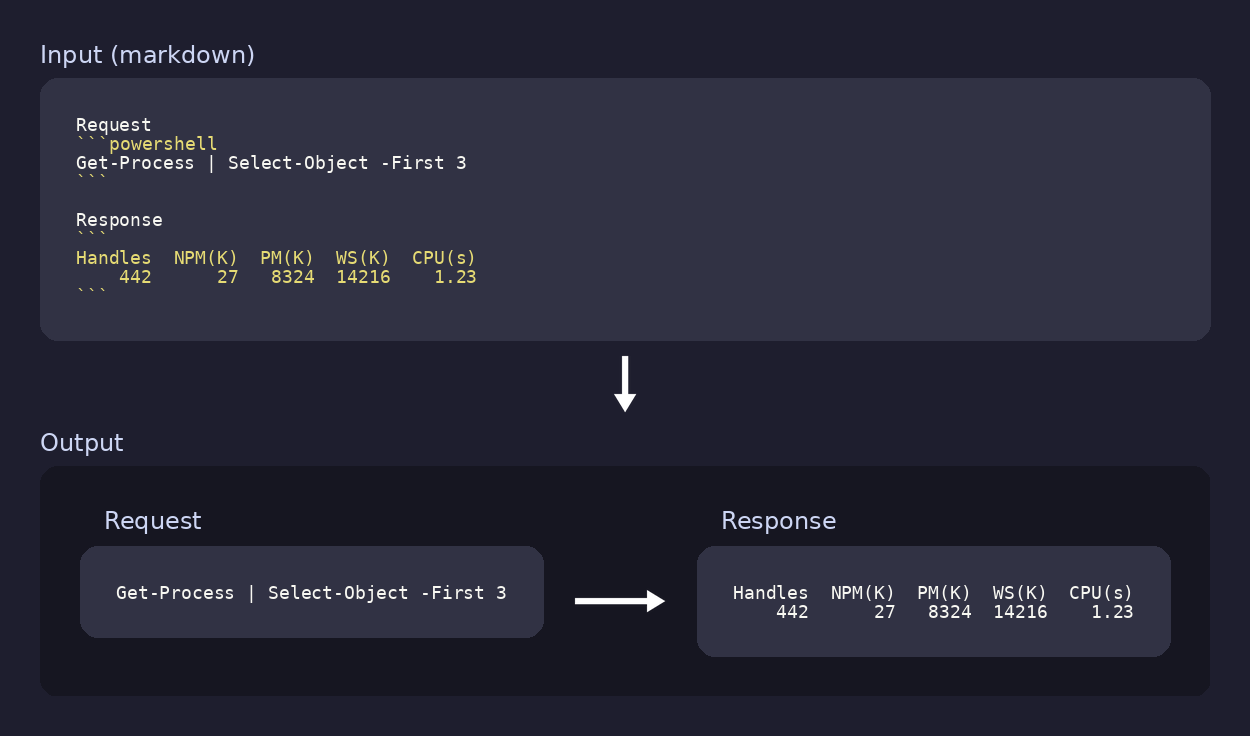
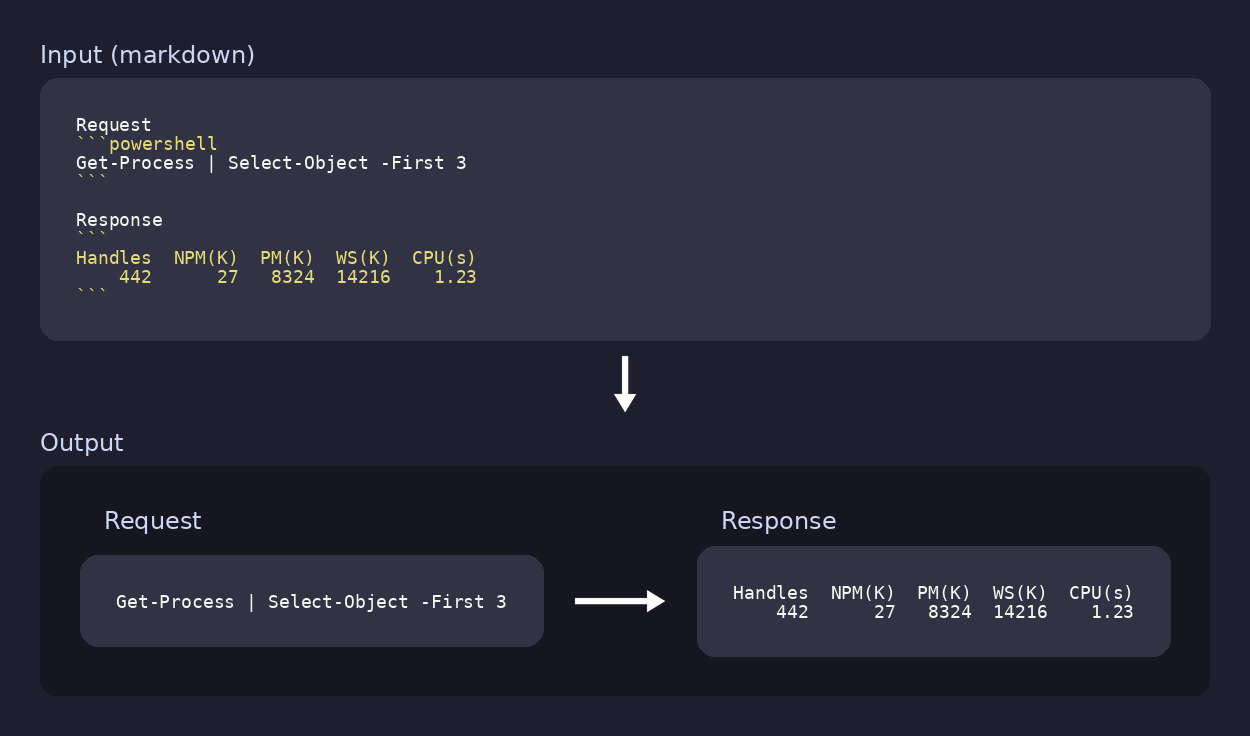
Center panels vertically; preserve animated GIF timing (0.2.3)
Two fixes that landed together because the second one was masked by
the first on the README's code-to-gif sample.

1. Vertical centering in horizontal layouts. compose_panels and
   compose_side_by_side both placed every panel's card at panel_y =
   top_pad, so a short panel next to a tall one stuck to the top of
   the row while the arrow pointed somewhere between them. Each panel
   is now offset by (max_panel_h - ph) // 2 so unequal heights center
   on the same horizontal line as the arrow. Existing samples
   (two-panels.png, markdown-demo.png) re-rendered with the fix.

2. Animated code -> gif no longer speeds up. _run_animated_two_panel's
   parallel branch picked min(left_dur, right_dur) per output frame.
   The static code panel reports a placeholder duration of 100ms, so a
   500ms-per-frame source GIF got capped at 100ms — a ~7x speedup.
   Extracted _composed_duration which uses the animated side's timing
   when only one side animates, min() when both do. The regenerated
   code-to-gif.gif now matches print_loop.gif's 7.55s total runtime
   exactly.

Tests:
- test_compose_panels_centers_unequal_heights / _side_by_side_:
  unequal-height inputs, scan the short panel's column, assert its
  center pixel matches the row center (catches a regression to
  top-alignment).
- test_composed_duration_*: unit-tests the static-vs-animated picker.

Changed region(s): [[0.0624, 0.7188, 0.4368, 0.9062]]

diff --git a/tests/test_compose.py b/tests/test_compose.py
@@ -47,3 +47,52 @@ def test_compose_panels_vertical_is_taller_and_narrower_than_horizontal():
     vert = compose_panels(items, vertical=True)
     assert vert.height > horiz.height
     assert vert.width < horiz.width
+
+
+def test_compose_panels_centers_unequal_heights(monkeypatch):
+    """Horizontal layout: when panels differ in height, each panel's
+    card must be vertically centered within the row, not top-aligned.
+    The shorter panel should sit roughly mid-row."""
+    from codeimg.colors import DEFAULT_BG
+
+    short = Image.new("RGBA", (100, 40), (10, 200, 10, 255))
+    tall = Image.new("RGBA", (100, 200), (200, 10, 10, 255))
+    out = compose_panels([(short, None, False), (tall, None, False)])
+
+    # margin=40, base_panel_pad=24 — column inside short panel's card.
+    col = 40 + 24
+    px = out.load()
+    panel_rows = [y for y in range(out.height) if px[col, y][:3] != DEFAULT_BG]
+    assert panel_rows, "short panel not rendered at expected x column"
+
+    panel_top, panel_bottom = panel_rows[0], panel_rows[-1]
+    # No titles -> top_pad = bottom_pad = margin = 40.
+    content_top = 40
+    content_bottom = out.height - 40
+    row_center = (content_top + content_bottom) // 2
+    panel_center = (panel_top + panel_bottom) // 2
+
+    # If centering works, panel_center should be near row_center. If
+    # the old top-aligned code is back, panel_center would be much
+    # closer to top_pad than to row_center.
+    assert abs(panel_center - row_center) <= 4, (
+        f"panel center {panel_center} not within 4px of row center {row_center}"
+    )
+
+
+def test_compose_side_by_side_centers_unequal_heights():
+    """Same centering invariant for the per-frame side-by-side compose
+    used in the animated code path."""
+    from codeimg.colors import DEFAULT_BG
+
+    short = Image.new("RGBA", (100, 40), (10, 200, 10, 255))
+    tall = Image.new("RGBA", (100, 200), (200, 10, 10, 255))
+    out = compose_side_by_side(short, tall, None, None)
+
+    col = 40 + 24
+    px = out.load()
+    panel_rows = [y for y in range(out.height) if px[col, y][:3] != DEFAULT_BG]
+    assert panel_rows
+    panel_center = (panel_rows[0] + panel_rows[-1]) // 2
+    row_center = (40 + (out.height - 40)) // 2
+    assert abs(panel_center - row_center) <= 4

diff --git a/src/cli.py b/src/cli.py
@@ -131,6 +131,20 @@ def _save_and_maybe_clip(img: Image.Image, args) -> str:
     return out_path
 
 
+def _composed_duration(left_dur: int, right_dur: int, left_anim: bool, right_anim: bool) -> int:
+    """Pick the frame duration for one composed output frame in parallel
+    mode. When only one side animates, its duration drives the timing —
+    naively taking min() with the static side's placeholder duration
+    would cap (and so speed up) a slow animation."""
+    if left_anim and right_anim:
+        return min(left_dur, right_dur)
+    if right_anim:
+        return right_dur
+    if left_anim:
+        return left_dur
+    return min(left_dur, right_dur)
+
+
 def _has_animated_image(resolved: list[ResolvedPanel]) -> bool:
     for rp in resolved:
         if not rp.is_image or not rp.image_path:
@@ -221,7 +235,7 @@ def _run_animated_two_panel(args, resolved: list[ResolvedPanel]) -> None:
             ))
             ld = left_durs[i % len(left_durs)] if left_durs else 100
             rd = right_durs[i % len(right_durs)] if right_durs else 100
-            composed_durs.append(min(ld, rd))
+            composed_durs.append(_composed_duration(ld, rd, left_anim, right_anim))
 
     first_size = composed_frames[0].size
     normalized: list[Image.Image] = []

diff --git a/tests/test_cli.py b/tests/test_cli.py
@@ -3,7 +3,28 @@ from pathlib import Path
 
 import pytest
 
-from codeimg.cli import main
+from codeimg.cli import _composed_duration, main
+
+
+def test_composed_duration_uses_animated_panel_when_only_one_animates():
+    """If only the right side animates, the composed-frame duration must
+    follow its timing — not the static side's placeholder. (Regression:
+    naive min() previously capped slow animations at the static panel's
+    100ms default, ~7x speedup.)"""
+    assert _composed_duration(100, 500, left_anim=False, right_anim=True) == 500
+    assert _composed_duration(500, 100, left_anim=True, right_anim=False) == 500
+
+
+def test_composed_duration_uses_min_when_both_animate():
+    """When both panels animate, the composed timing syncs to the faster
+    one so neither loops out of phase."""
+    assert _composed_duration(33, 50, left_anim=True, right_anim=True) == 33
+
+
+def test_composed_duration_static_only_falls_back_to_min():
+    """Both-static is degenerate in the animated path, but the helper
+    must not crash and should still return a sane value."""
+    assert _composed_duration(100, 100, left_anim=False, right_anim=False) == 100
 
 
 def _run_main(monkeypatch, argv, stdin=None):

diff --git a/src/compose.py b/src/compose.py
@@ -122,7 +122,7 @@ def compose_panels(
     x = margin
     for i, ((img, title, is_image), pad, pw, ph) in enumerate(zip(items, pads, panel_widths, panel_heights)):
         panel_x = x
-        panel_y = top_pad
+        panel_y = top_pad + (max_panel_h - ph) // 2
         draw_bg = not (no_inner_border and is_image)
         if draw_bg:
             draw.rounded_rectangle(
@@ -264,12 +264,12 @@ def compose_side_by_side(
         draw.text((right_title_x, margin), right_title, font=title_font, fill=TEXT)
 
     left_panel_x = margin
-    left_panel_y = top_pad
+    left_panel_y = top_pad + (max_panel_h - left_inner_h) // 2
     left_panel_w = left_img.width + left_panel_pad * 2
     left_panel_h = left_inner_h
 
     right_panel_x = margin + left_panel_w + gutter + arrow_width + gutter
-    right_panel_y = top_pad
+    right_panel_y = top_pad + (max_panel_h - right_inner_h) // 2
     right_panel_w = right_img.width + right_panel_pad * 2
     right_panel_h = right_inner_h
 

diff --git a/CHANGELOG.md b/CHANGELOG.md
@@ -1,5 +1,19 @@
 # Changelog
 
+## 0.2.3 — 2026-05-20
+
+### Fixed
+- Horizontal layouts now vertically center each panel within the row.
+  Previously panels were top-aligned, so a tall panel next to a short
+  one left the short one floating against the top while the arrow
+  pointed somewhere between them. Affects both `compose_panels` and
+  the per-frame `compose_side_by_side` used in animated output.
+- Animated code → gif output no longer speeds up the source GIF. The
+  parallel-mode duration picker used `min(left, right)`, which capped
+  slow animations at the static code panel's 100ms placeholder (a 7×
+  speedup for a 500ms-per-frame source). Now the animated panel's
+  durations drive the output when the other side is static.
+
 ## 0.2.2 — 2026-05-20
 
 ### Changed
